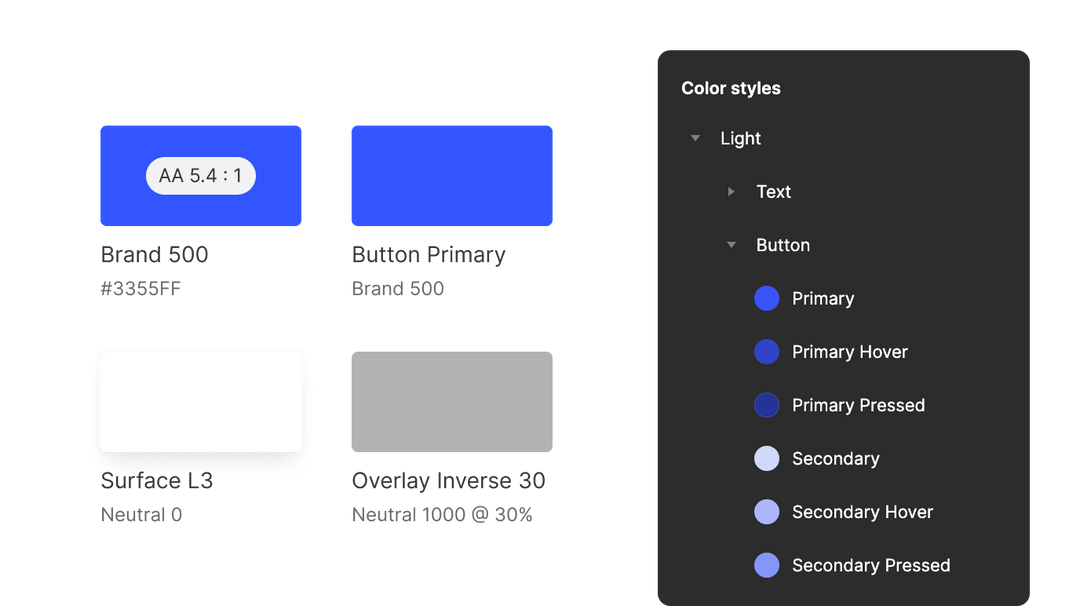
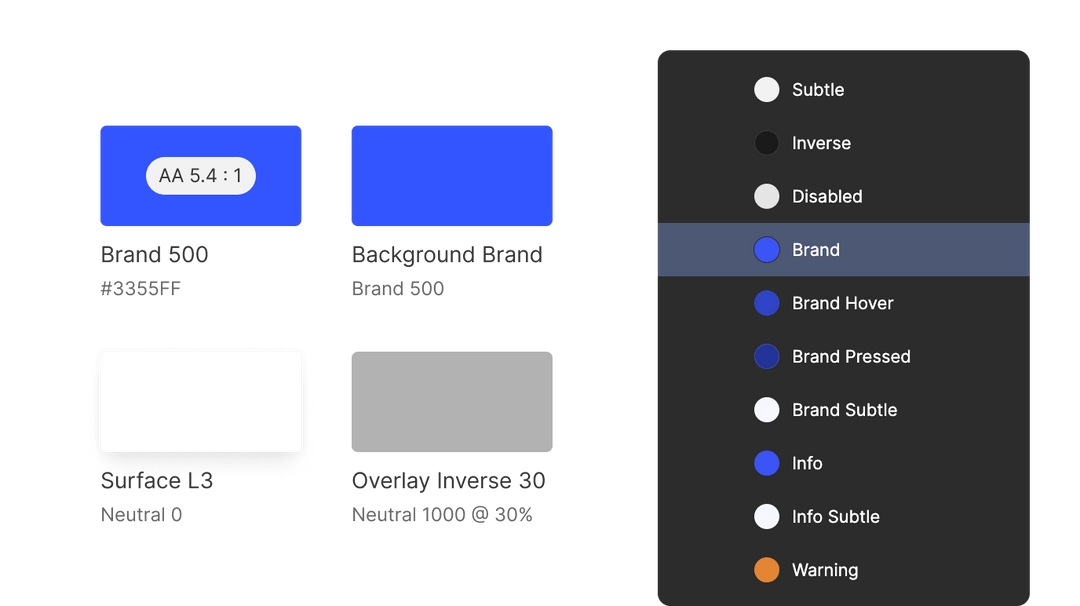
Webflow updates 110623

diff --git a/index.html b/index.html
@@ -1,5 +1,5 @@
 <!DOCTYPE html><!--  This site was created in Webflow. https://www.webflow.com  -->
-<!--  Last Published: Sat Jun 10 2023 23:36:33 GMT+0000 (Coordinated Universal Time)  -->
+<!--  Last Published: Sun Jun 11 2023 01:44:06 GMT+0000 (Coordinated Universal Time)  -->
 <html data-wf-page="63700507716f802604534add" data-wf-site="63700507716f806d90534adc">
 <head>
   <meta charset="utf-8">
@@ -210,7 +210,7 @@ input:checked + .slider:before {
   <div class="section wf-section">
     <div class="container module w-container">
       <div class="w-layout-grid module__grid">
-        <div id="w-node-e7ebe00a-5d26-7f33-3f3e-bb4acd2865b9-04534add" class="module__image"><img src="images/scale-image-module-tokens-light.png" loading="lazy" sizes="(max-width: 479px) 100vw, (max-width: 767px) 96vw, (max-width: 991px) 97vw, 82vw" srcset="images/scale-image-module-tokens-light-p-500.png 500w, images/scale-image-module-tokens-light-p-800.png 800w, images/scale-image-module-tokens-light-p-1080.png 1080w, images/scale-image-module-tokens-light.png 1464w" alt=""></div>
+        <div id="w-node-e7ebe00a-5d26-7f33-3f3e-bb4acd2865b9-04534add" class="module__image"><img src="images/scale-image-module-tokens-light_1.png" loading="lazy" sizes="(max-width: 479px) 100vw, (max-width: 767px) 96vw, (max-width: 991px) 97vw, 82vw" srcset="images/scale-image-module-tokens-light_1-p-500.png 500w, images/scale-image-module-tokens-light_1-p-800.png 800w, images/scale-image-module-tokens-light_1-p-1080.png 1080w, images/scale-image-module-tokens-light_1.png 1464w" alt=""></div>
         <div id="w-node-e7ebe00a-5d26-7f33-3f3e-bb4acd2865bb-04534add" class="module__content-right">
           <h1>Saving the world with Semantic Tokens</h1>
           <h3>Also known as design tokens, represent the role that each color plays in the interface</h3>

diff --git a/home-signup-success.html b/home-signup-success.html
@@ -1,5 +1,5 @@
 <!DOCTYPE html><!--  This site was created in Webflow. https://www.webflow.com  -->
-<!--  Last Published: Sat Jun 10 2023 23:36:33 GMT+0000 (Coordinated Universal Time)  -->
+<!--  Last Published: Sun Jun 11 2023 01:44:06 GMT+0000 (Coordinated Universal Time)  -->
 <html data-wf-page="63700507716f80639e534ae1" data-wf-site="63700507716f806d90534adc">
 <head>
   <meta charset="utf-8">
@@ -100,9 +100,9 @@ input:checked + .slider:before {
   <div class="section section__hero wf-section">
     <div class="container hero w-container">
       <div class="w-layout-grid module__grid">
-        <div class="hero__content">
+        <div class="hero__content is-left">
           <div class="hero__content-signup-text">
-            <h1 class="sc-text-title-xl sc-color-text-primary-inverse-static">Scale.<br><span class="text--feature-loop"></span></h1>
+            <h1>Scale.<br><span class="text--feature-loop"></span></h1>
             <p class="sc-text-text-l sc-color-text-secondary-inverse-static">Thanks for signing up! 🙌🏻</p>
           </div>
           <a href="index.html" class="button w-button">Return home</a>
@@ -116,7 +116,6 @@ input:checked + .slider:before {
       </p>
     </div>
   </div>
-  <div class="sc-image-hero-wallpaper"></div>
   <script src="https://d3e54v103j8qbb.cloudfront.net/js/jquery-3.5.1.min.dc5e7f18c8.js?site=63700507716f806d90534adc" type="text/javascript" integrity="sha256-9/aliU8dGd2tb6OSsuzixeV4y/faTqgFtohetphbbj0=" crossorigin="anonymous"></script>
   <script src="js/webflow.js" type="text/javascript"></script>
   <script>

diff --git a/home-archive.html b/home-archive.html
@@ -1,5 +1,5 @@
 <!DOCTYPE html><!--  This site was created in Webflow. https://www.webflow.com  -->
-<!--  Last Published: Sat Jun 10 2023 23:36:33 GMT+0000 (Coordinated Universal Time)  -->
+<!--  Last Published: Sun Jun 11 2023 01:44:06 GMT+0000 (Coordinated Universal Time)  -->
 <html data-wf-page="6430f51d878794d30c53beb5" data-wf-site="63700507716f806d90534adc">
 <head>
   <meta charset="utf-8">

diff --git a/licence-agreement.html b/licence-agreement.html
@@ -1,5 +1,5 @@
 <!DOCTYPE html><!--  This site was created in Webflow. https://www.webflow.com  -->
-<!--  Last Published: Sat Jun 10 2023 23:36:33 GMT+0000 (Coordinated Universal Time)  -->
+<!--  Last Published: Sun Jun 11 2023 01:44:06 GMT+0000 (Coordinated Universal Time)  -->
 <html data-wf-page="63700507716f802773534ae2" data-wf-site="63700507716f806d90534adc">
 <head>
   <meta charset="utf-8">

diff --git a/css/scaledesignsystem.webflow.css b/css/scaledesignsystem.webflow.css
@@ -216,6 +216,11 @@ label {
   position: relative;
 }
 
+.hero__content.is-left {
+  align-items: flex-start;
+  padding-left: 0%;
+}
+
 .button {
   height: 48px;
   text-align: center;
